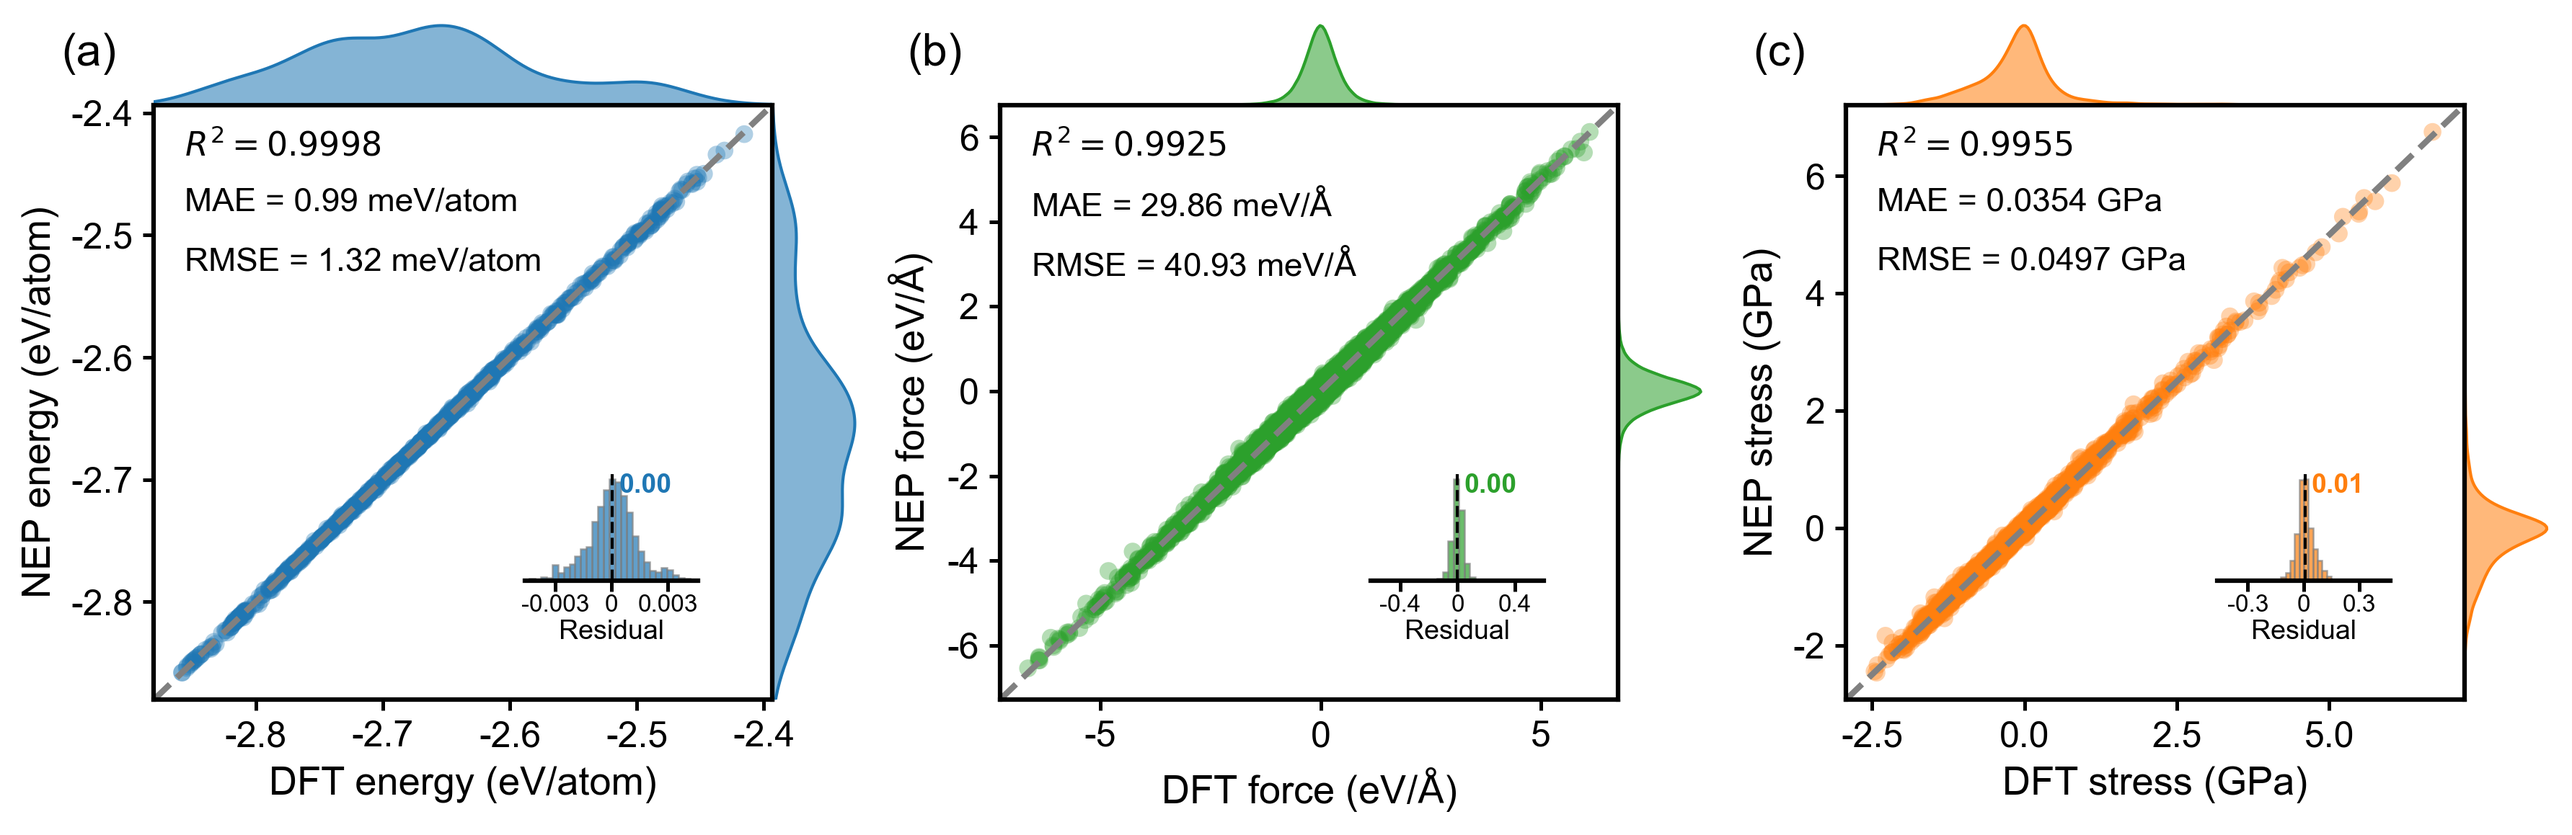
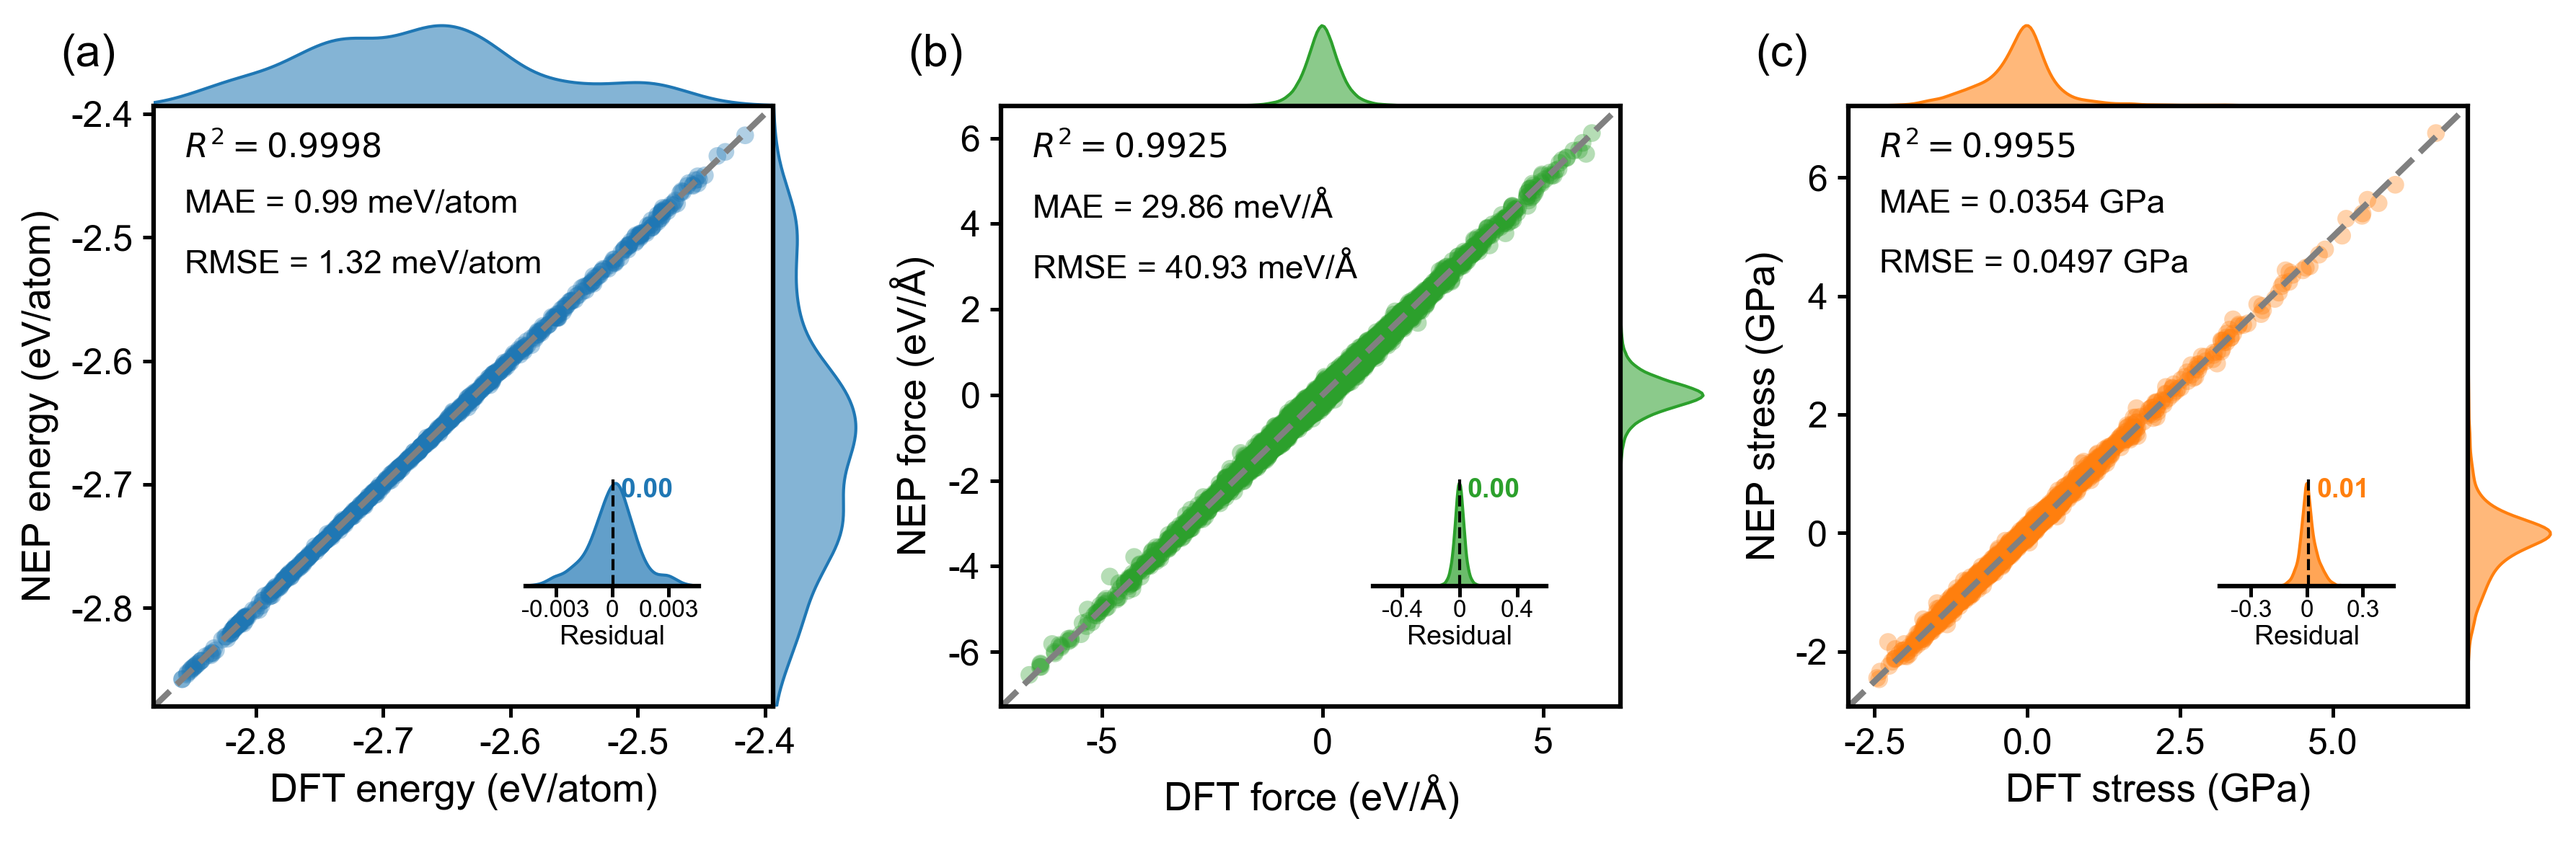
update

diff --git a/Scripts/plt_scripts/plt_prediction.py b/Scripts/plt_scripts/plt_prediction.py
@@ -190,7 +190,22 @@ def add_residual_inset(ax, residuals, color):
     # Moved upward to avoid overlapping with main x-axis labels
     ax_inset = ax.inset_axes([0.60, 0.20, 0.28, 0.18])
 
-    ax_inset.hist(residuals, bins=28, color=color, alpha=0.70, edgecolor='gray', linewidth=0.6)
+    limit = np.max(np.abs(residuals))
+    grid = np.linspace(-1.05 * limit, 1.05 * limit, 256)
+
+    density = None
+    if gaussian_kde is not None:
+        try:
+            density = gaussian_kde(residuals)(grid)
+        except (np.linalg.LinAlgError, ValueError):
+            pass
+
+    if density is not None:
+        ax_inset.fill_between(grid, density, color=color, alpha=0.70, linewidth=0)
+        ax_inset.plot(grid, density, color=color, linewidth=1.0)
+        ax_inset.set_ylim(bottom=0)
+    else:
+        ax_inset.hist(residuals, bins=28, color=color, alpha=0.70, edgecolor='gray', linewidth=0.6)
 
     mean_res = np.mean(residuals)
     ax_inset.axvline(mean_res, color='k', linestyle='--', linewidth=1.0)
@@ -203,7 +218,6 @@ def add_residual_inset(ax, residuals, color):
                   color=color, fontsize=9, fontweight='bold')
 
     # Symmetric limits with three ticks (-t, 0, t) so the tick labels never overlap
-    limit = np.max(np.abs(residuals))
     tick = float(f'{0.7 * limit:.1g}')
     ax_inset.set_xlim(-1.05 * limit, 1.05 * limit)
     ax_inset.set_xticks([-tick, 0.0, tick])
